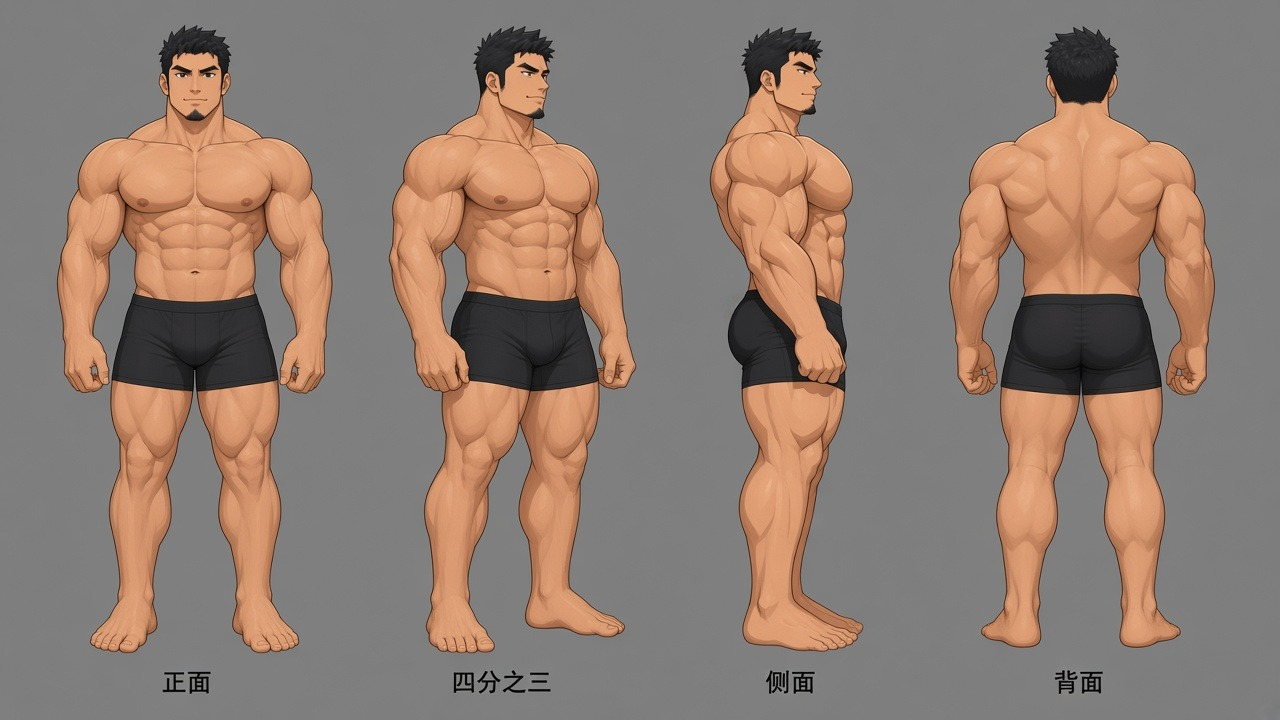
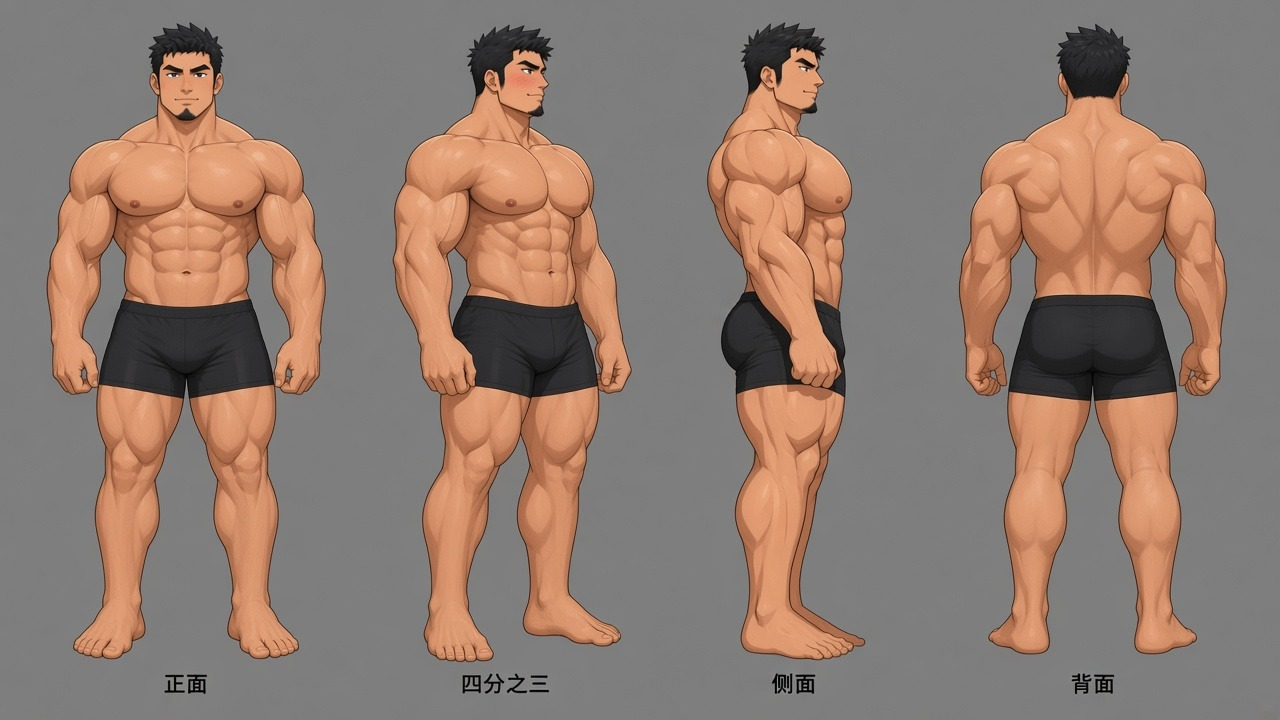
fix: 侧面胸放低，不再往上挺
圆球中心改到胸中部，转面跟着这张。

diff --git a/人物设定图/设定说明.md b/人物设定图/设定说明.md
@@ -7,7 +7,7 @@
 ## 识别点
 
 - 脸：短碎发。眼往侧看，深棕色。下颌收尖，下巴有一小撮山羊胡，颊侧淡胡茬。
-- 体：侧面照用户给的那张肌肉侧面重画成一整张。胸圆，最鼓的位置在前上方。手臂在身前，拳头在髋前。肩在胸后。臀圆，包在短裤里。高，腿长。
+- 体：侧面照那张肌肉侧面。胸是圆的，中心在胸中部，不往上挺。手臂在身前，拳头在髋前。肩在胸后。臀圆。高，腿长。
 - 肤色：暖小麦色。渲染用哑光，不要油亮高光。
 
 ## 图
@@ -15,9 +15,9 @@
 - `正面参考.jpg`：选定的脸
 - `正面全身.jpg`：从转面取出的正面
 - `头部特写.jpg`：头部特写
-- `全身转面.jpg`：按已定侧面画出的正面、四分之三、侧面、背面
+- `全身转面.jpg`：按放低之后的侧面画出的正面、四分之三、侧面、背面
 - `四分之三.jpg`：从这张转面取出的四分之三
-- `侧面.jpg`：已定的侧面。胸圆且向前，手臂在身前
+- `侧面.jpg`：胸放低后的侧面。圆球中心在胸中部，不往上挺
 - `背面.jpg`：从这张转面取出的背面
 - `头部转面.jpg`：左侧面、左四分之三、正面、右四分之三、右侧面
 - `表情.jpg`：平视、侧目、轻笑、沉脸
